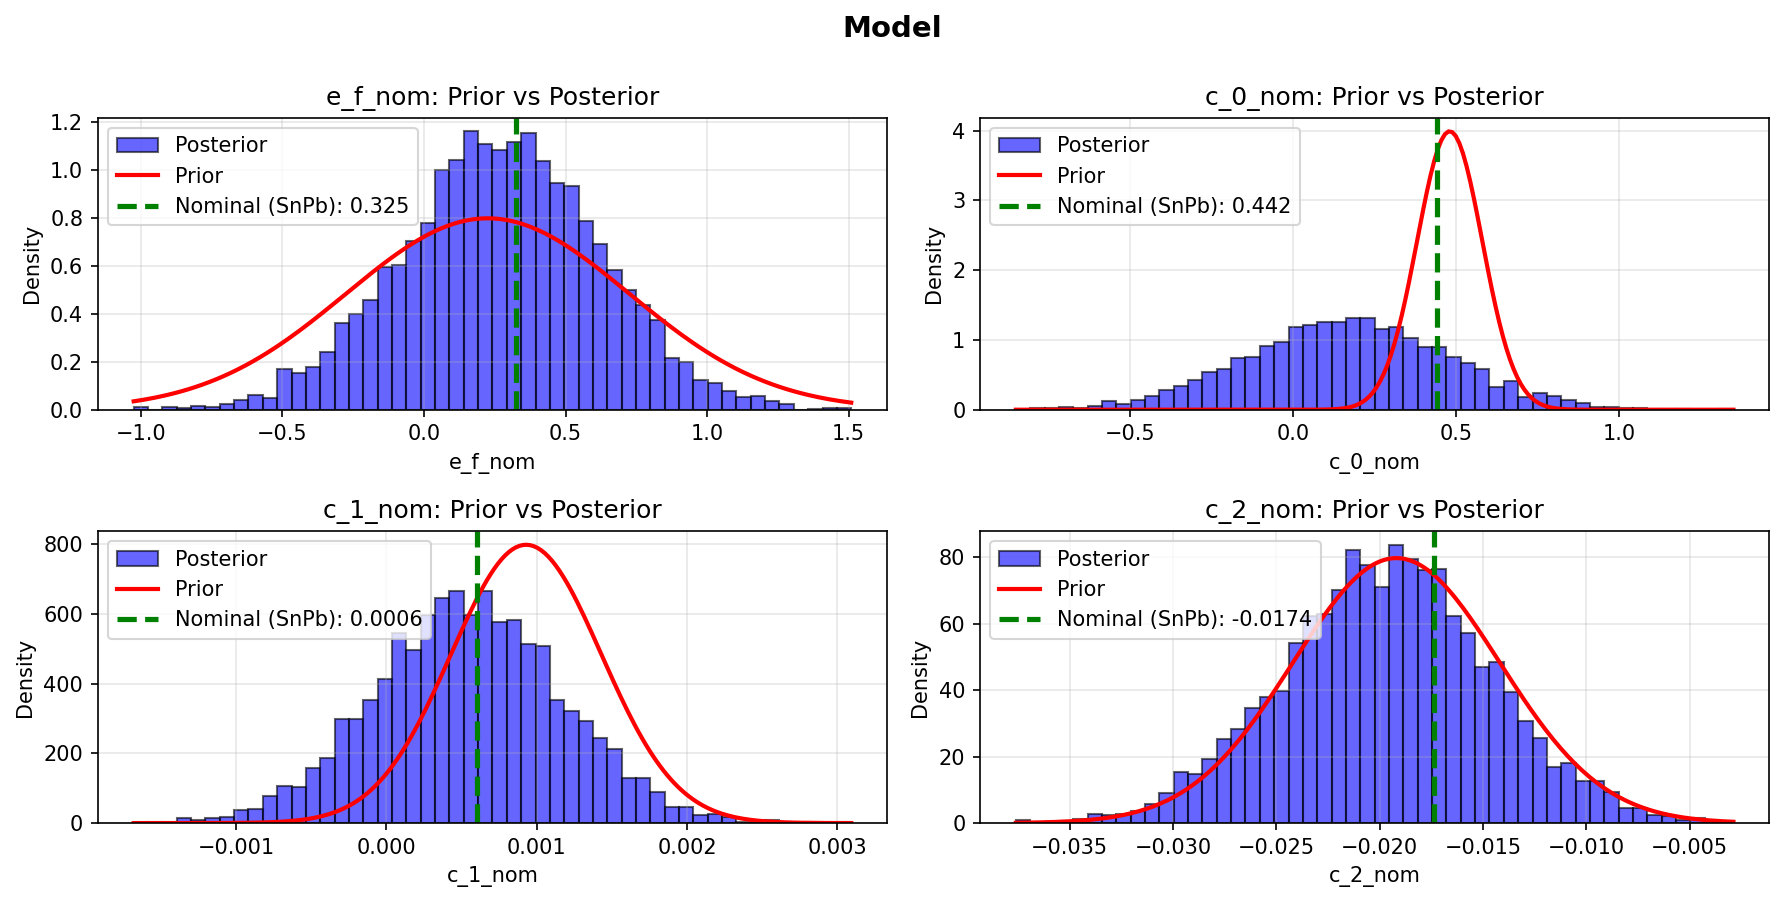
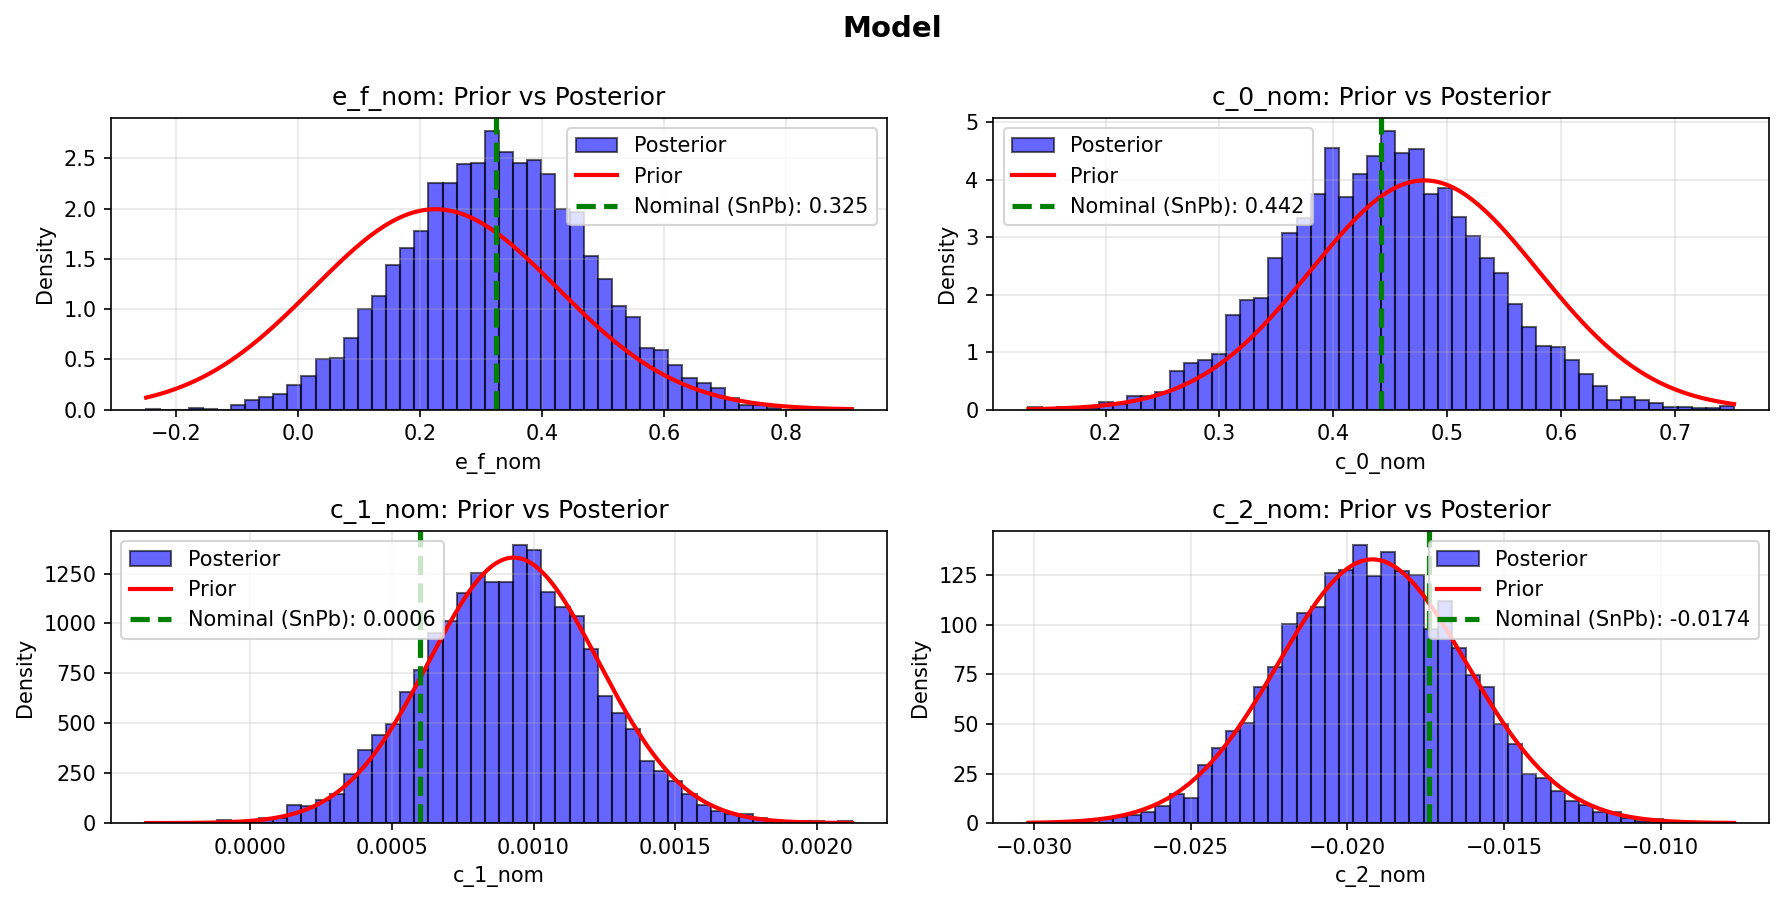
0 divergences, c1 c2 just look like priors but get more divergences if i dec the observed variance

diff --git a/demos/hybrid_bonding/thermomech.py b/demos/hybrid_bonding/thermomech.py
@@ -14,6 +14,7 @@ from functools import partial
 import json
 import pandas as pd
 
+import numpy as np
 import seaborn as sb
 from matplotlib import pyplot as plt, scale
 import matplotlib.lines as pltlines
@@ -73,11 +74,12 @@ def hybrid_bonding_thermomech():
     # Define Prior Parameters
     #################################################################
     
-    # Using priors from SAC105 and Data from SnPb to see if model will update beliefs accordingly
-    e_f_prior = {'loc': 0.225, 'scale': 0.5}      # fatigue ductility coefficient
-    c_0_prior = {'loc': 0.480, 'scale': 0.1}  # base fatigue exponent
-    c_1_prior = {'loc': 9.30E-04, 'scale': 5E-4}   # temperature coefficient
-    c_2_prior = {'loc': -1.92E-02, 'scale': 5E-3}  # dwell time coefficient
+    # Using loose priors based on SnPb/SAC105 to allow data to drive inference
+    e_f_prior = {'loc': 0.225, 'scale': 0.2}      # fatigue ductility coefficient
+    c_0_prior = {'loc': 0.480, 'scale': 0.1}       # base fatigue exponent (average of SnPb/SAC105)
+    c_1_prior = {'loc': 9.30e-04, 'scale': 3E-04}   # temperature coefficient (average)
+    c_2_prior = {'loc': -1.92e-02, 'scale': 3E-03} # dwell time coefficient (average)
+
 
     print(f"  e_f:     loc={e_f_prior['loc']}, scale={e_f_prior['scale']}")
     print(f"  c_0:     loc={c_0_prior['loc']}, scale={c_0_prior['scale']}")
@@ -87,16 +89,18 @@ def hybrid_bonding_thermomech():
 
     def calc_engelmaier(e_f, c_0, c_1, c_2, t_0, T_sj, t_D, delta_D):
         m =  c_0 + c_1*T_sj + c_2*jnp.log(1 + t_0 / t_D) 
-        N_f_50 = 0.5*(2*e_f/delta_D)**(1/m)
+        N_f_50 = 0.5*jnp.power(2*e_f/delta_D, 1/m)
         return N_f_50
     
     def calc_log_engelmaier(e_f, c_0, c_1, c_2, t_0, T_sj, t_D, delta_D):
-        """Return log of predicted Nf for LogNormal likelihood"""
-        N_f = calc_engelmaier(e_f, c_0, c_1, c_2, t_0, T_sj, t_D, delta_D)
-        return jnp.log(N_f)
+        e_f, delta_D = jnp.maximum(e_f, 0.001), jnp.maximum(delta_D, 1e-8)
+        m = jnp.maximum(c_0 + c_1*T_sj + c_2*jnp.log(1 + t_0/t_D), 0.1)
+        N_f = 0.5*jnp.power(jnp.maximum(2*e_f/delta_D, 1e-8), 1/m)
+        log_N_f = jnp.log(jnp.maximum(N_f, 1.0))
+        return jnp.where(jnp.isfinite(log_N_f), log_N_f, jnp.log(1e8))
     
     mb = stratcona.SPMBuilder(mdl_name='hb_engelmaier')
-    mb.add_params(t_0=400, meas_var = 15) 
+    mb.add_params(t_0=400, meas_var = 7)  # Measurement variance in log 
     
     mb.add_hyperlatent('e_f_nom', dists.Normal, e_f_prior)
     mb.add_hyperlatent('c_0_nom', dists.Normal, c_0_prior)
@@ -116,7 +120,7 @@ def hybrid_bonding_thermomech():
 
     mb.add_observed(
         'nf_delta_D',
-        dists.LogNormal,
+        dists.Normal,  # Normal dist in log-space (not LogNormal)
         {'loc': 'log_engelmaier_nf', 'scale': 'meas_var'},
         1  # One observation per test condition
     )
@@ -146,11 +150,11 @@ def hybrid_bonding_thermomech():
     #################################################################
     start_time = time.time()
 
-    # Build measured_data with one entry per test point
+    # Build measured_data with log-transformed Nf (since we use Normal in log-space)
     measured_data = {}
     for i, nf_val in enumerate(Nf_data):
         test_name = f'test_{i}'
-        measured_data[test_name] = {'nf_delta_D': jnp.array([nf_val])}
+        measured_data[test_name] = {'nf_delta_D': jnp.array([jnp.log(float(nf_val))])}
 
     am.do_inference(measured_data)
     print(f'Inference completed in {time.time() - start_time:.2f} seconds')
@@ -161,7 +165,7 @@ def hybrid_bonding_thermomech():
     # -------- SAMPLE FROM POSTERIOR DISTRIBUTIONS -------------------
     #################################################################
     
-    rng_key = rand.key(999)
+    rng_key = rand.key(424242)
     posterior_samples = {}
     
     for hyl_name, hyl_params in am.relmdl.hyl_beliefs.items():
@@ -191,14 +195,8 @@ def hybrid_bonding_thermomech():
     Nf_hb_all = []
     
     for i in range(n_samples_posterior):
-        # Ensure parameters are positive
-        e_f = jnp.maximum(e_f_samples[i], 0.01)
-        c_0 = jnp.maximum(c_0_samples[i], 0.01)
-        c_1 = jnp.maximum(c_1_samples[i], 0.0001)
-        c_2 = c_2_samples[i]
-        
         Nf_hb = calc_engelmaier(
-            e_f, c_0, c_1, c_2,
+            e_f_samples[i], c_0_samples[i], c_1_samples[i], c_2_samples[i],
             t_0, T_sj, t_D, delta_D_range
         )
         Nf_hb_all.append(Nf_hb)
@@ -231,7 +229,6 @@ def hybrid_bonding_thermomech():
     c_0_mean = float(am.relmdl.hyl_beliefs['c_0_nom']['loc'])
     c_1_mean = float(am.relmdl.hyl_beliefs['c_1_nom']['loc'])
     c_2_mean = float(am.relmdl.hyl_beliefs['c_2_nom']['loc'])
-    
     
     # Calculate deterministic prediction using posterior means
     mean_pred_hb = calc_engelmaier(
@@ -341,11 +338,12 @@ def hybrid_bonding_thermomech():
     plt.savefig(filename_posterior, dpi=150, bbox_inches='tight')
     print(f"\nPosterior plot saved as '{filename_posterior}'")
     plt.show()
+
     #################################################################
     # -------- PLOT POSTERIOR PREDICTIONS WITH REFERENCE SOLDERS ------
     #################################################################
     
-    # Reference solder data (from sampling_results_reproduce.py)
+    # Reference solder data from Engelmaier Paper
     snpb_nom = {
         "e_f": 0.325,
         "c_0": 0.442,

diff --git a/demos/engelmaier/sampling_results_reproduce.py b/demos/engelmaier/sampling_results_reproduce.py
@@ -29,7 +29,7 @@ sys.path.insert(0, os.path.abspath(os.path.join(os.path.dirname(__file__), '../.
 
 def calc_engelmaier_sac_snsg(e_f, c_0, c_1, c_2, t_0, T_sj, t_D, delta_D):
     m =  c_0 + c_1*T_sj + c_2*jnp.log(1 + t_0 / t_D) 
-    N_f_50 = 0.5*(2*e_f/delta_D)**(1/m)
+    N_f_50 = 0.5*jnp.pow(2*e_f/delta_D)(1/m)
     return N_f_50
 
 # This function is for recreating the data found in Source #1 since it contained graphs
